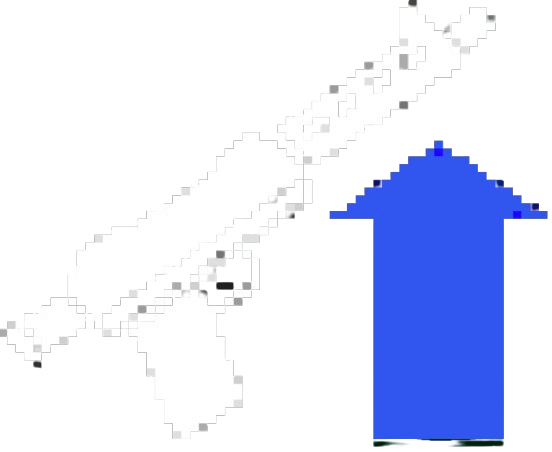
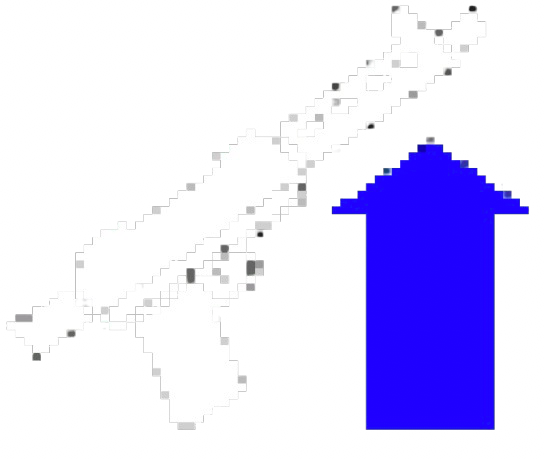
Followerの画像を用意してみたのと、ScoreBoosterを300にした（expの三倍がスコア）

diff --git a/ShootingGame/ShootingGame/MainWindow.xaml.cs b/ShootingGame/ShootingGame/MainWindow.xaml.cs
@@ -390,7 +390,7 @@ namespace ShootingGame
         {
             if (enemies.Count <= 0)
             {
-                enemies.Add(new Boss1());
+                enemies.Add(new Boss3());
                 Boss b = (Boss)enemies[0];
                 enemies.AddRange(b.GetFollowers());
 
@@ -434,6 +434,8 @@ namespace ShootingGame
                 };
                 musicPlayer.IsMuted = false;
                 musicPlayer.Play();
+
+                backgroundAnimationCounter = 0;
             }
         }
 
@@ -473,6 +475,8 @@ namespace ShootingGame
                 };
                 musicPlayer.IsMuted = false;
                 musicPlayer.Play();
+
+                backgroundAnimationCounter = 0;
             }
         }
 
@@ -510,7 +514,7 @@ namespace ShootingGame
         {
             if (windowMode > 0) stagePosition++;
 
-            if (stagePosition > stageLastPosition + 500 && enemies.Count == 0)
+            if (stagePosition > stageLastPosition + 300 && enemies.Count == 0)
             {
                 windowMode = (WindowMode)(-1 * (int)windowMode);
 
@@ -785,7 +789,7 @@ namespace ShootingGame
                                         , FONT_TYPEFACE
                                         , 30
                                         , Brushes.Yellow
-                                        , 12.5), new Point(SystemParameters.FullPrimaryScreenWidth / 2 - topranking.Length * 1.5, modeSelectionTextRect.Y - 40));
+                                        , 12.5), new Point(SystemParameters.FullPrimaryScreenWidth / 2 - topranking.Length * 1.5, modeSelectionTextRect.Y - 150));
             }
             else
             {

diff --git a/ShootingGame/ShootingGame/UtilityUris.cs b/ShootingGame/ShootingGame/UtilityUris.cs
@@ -57,6 +57,8 @@ namespace ShootingGame
         public static readonly Uri BOSS2_URI = new Uri("../../../img/Boss2.png", UriKind.RelativeOrAbsolute);
         public static readonly Uri BOSS3_URI = new Uri("../../../img/Boss3.png", UriKind.RelativeOrAbsolute);
 
+        public static readonly Uri FOLLOWER_URI = new Uri("../../../img/Follower.png", UriKind.RelativeOrAbsolute);
+
         //enemyの弾
         public static readonly Uri E_BULLET_SMALL_URI    = new Uri("../../../img/Enemy_Bullet_SMALL.png", UriKind.RelativeOrAbsolute);
         public static readonly Uri E_BULLET_URI          = new Uri("../../../img/Enemy_Bullet.png", UriKind.RelativeOrAbsolute);
@@ -69,6 +71,7 @@ namespace ShootingGame
         public static readonly Uri SHOT_RATE_DOWN_ICON_URI = new Uri("../../../img/Icon_Ratedown.png", UriKind.RelativeOrAbsolute);
         public static readonly Uri INCINCIBLE_ICON_URI     = new Uri("../../../img/Icon_Invincible.png", UriKind.RelativeOrAbsolute);
         public static readonly Uri SCORE_BOOST_ICON_URI    = new Uri("../../../img/Icon_Scoreboost.png", UriKind.RelativeOrAbsolute);
+        public static readonly Uri DESTOROY_ICON_URI       = new Uri("../../../img/Icon_Destoroy.png", UriKind.RelativeOrAbsolute);
 
         //武器アイコン
         public static readonly Uri DEFAULT_ICON_URI = new Uri("../../../img/Icon_Default.png",UriKind.RelativeOrAbsolute);

diff --git a/ShootingGame/ShootingGame/Entities/Planes/Enemies/Boss/Boss2.cs b/ShootingGame/ShootingGame/Entities/Planes/Enemies/Boss/Boss2.cs
@@ -16,7 +16,7 @@ namespace ShootingGame.Entities.Planes.Enemies.Boss
         private const int PATERN_B = 1;
         private const int PATERN_C = 2;
 
-        public Boss2() : base(App.window.moveableLeftSidePosition + 50, 2, 500, 100, 3, Images.STRAIGHT_ENEMY_IMAGE, 1000, Bullet.RADIUS_FOR_BIG, 200, GenerateFollowers())
+        public Boss2() : base(App.window.moveableLeftSidePosition + 50, 2, 500, 100, 3, Images.BOSS2_IMAGE, 1000, Bullet.RADIUS_FOR_BIG, 200, GenerateFollowers())
         {
             patern = PATERN_A;
         }
@@ -89,10 +89,10 @@ namespace ShootingGame.Entities.Planes.Enemies.Boss
         private static List<Follower> GenerateFollowers()
         {
             return new List<Follower> {
-                new Follower(new SplitEnemy(App.window.moveableLeftSidePosition + 50,100,2), 50),
+                new Follower(new SplitEnemy(App.window.moveableLeftSidePosition + 50,100,2), 25),
                 new Follower(new HexagonEnemy(App.window.moveableLeftSidePosition  + 150,100,2), 150),
                 new Follower(new HexagonEnemy(App.window.moveableLeftSidePosition  + 400,100,2), 150),
-                new Follower(new SplitEnemy(App.window.moveableLeftSidePosition + 450,100,2), 50),
+                new Follower(new SplitEnemy(App.window.moveableLeftSidePosition + 450,100,2), 25),
             };
         }
 

diff --git a/ShootingGame/ShootingGame/Images.cs b/ShootingGame/ShootingGame/Images.cs
@@ -69,6 +69,8 @@ namespace ShootingGame
         public static readonly BitmapImage BOSS2_IMAGE = new BitmapImage(UtilityUris.BOSS2_URI);
         public static readonly BitmapImage BOSS3_IMAGE = new BitmapImage(UtilityUris.BOSS3_URI);
 
+        public static readonly BitmapImage FOLLOWER_IMAGE = new BitmapImage(UtilityUris.FOLLOWER_URI);
+
         /// <summary>
         /// 敵の弾 Sサイズ :  8x 8 (r=4)
         /// </summary>
@@ -89,6 +91,7 @@ namespace ShootingGame
         public static readonly BitmapImage SHOT_RATE_DOWN_ICON_IMAGE = new BitmapImage(UtilityUris.SHOT_RATE_DOWN_ICON_URI);
         public static readonly BitmapImage INCINCIBLE_ICON_IMAGE     = new BitmapImage(UtilityUris.INCINCIBLE_ICON_URI);
         public static readonly BitmapImage SCORE_BOOST_ICON_IMAGE    = new BitmapImage(UtilityUris.SCORE_BOOST_ICON_URI);
+        public static readonly BitmapImage DESTOROY_ICON_IMAGE       = new BitmapImage(UtilityUris.DESTOROY_ICON_URI);
 
         //武器アイコン
         public static readonly BitmapImage DEFAULT_ICON_IMAGE = new BitmapImage(UtilityUris.DEFAULT_ICON_URI);

diff --git a/ShootingGame/ShootingGame/Entities/Planes/Enemies/Boss/Boss3.cs b/ShootingGame/ShootingGame/Entities/Planes/Enemies/Boss/Boss3.cs
@@ -24,7 +24,7 @@ namespace ShootingGame.Entities.Planes.Enemies.Boss
         private const int PATERN_E = 4;
         private const int PATERN_F = 5;
 
-        public Boss3() : base(App.window.moveableLeftSidePosition + 50, 2, 500, 100, 5, Images.STRAIGHT_ENEMY_IMAGE, 2000, Bullet.RADIUS_FOR_BIG, 50, GenerateFollowers())
+        public Boss3() : base(App.window.moveableLeftSidePosition + 50, 2, 500, 100, 5, Images.BOSS3_IMAGE, 2000, Bullet.RADIUS_FOR_BIG, 50, GenerateFollowers())
         {
             defaultMoveableSidePositions = new int[2];
             defaultMoveableSidePositions[0] = App.window.moveableLeftSidePosition;

diff --git a/ShootingGame/ShootingGame/Entities/Planes/Enemies/Boss/Follower.cs b/ShootingGame/ShootingGame/Entities/Planes/Enemies/Boss/Follower.cs
@@ -9,7 +9,7 @@ namespace ShootingGame.Entities.Planes.Enemies.Boss
         public readonly int MAX_HP;
 
 
-        public Follower(Enemy enemy,int MAX_HP) : base(enemy.X, enemy.Y, enemy.Radius, 0, enemy.Img, enemy.Level, 100, Bullet.RADIUS_FOR_SMALL, enemy.MaxBulletCoolTime)
+        public Follower(Enemy enemy,int MAX_HP) : base(enemy.X, enemy.Y, enemy.Radius, 0, Images.FOLLOWER_IMAGE, enemy.Level, 100, Bullet.RADIUS_FOR_SMALL, enemy.MaxBulletCoolTime)
         {
             wrappedEnemy = enemy;
             wrappedEnemy.Speed = 0;

diff --git a/ShootingGame/ShootingGame/Entities/Planes/Enemies/GoldenEnemy.cs b/ShootingGame/ShootingGame/Entities/Planes/Enemies/GoldenEnemy.cs
@@ -2,7 +2,7 @@
 {
     class GoldenEnemy : Enemy
     {
-        public GoldenEnemy(int x, int y, int level ) : base(x, y, /*r=*/10,  /*speed=*/15, Images.GOLDEN_ENEMY_IMAGE, /*LV=*/level, /*hp=*/1, /*bulletRadius=*/Bullet.RADIUS_FOR_SMALL, /*maxBulletCooltime=*/200)
+        public GoldenEnemy(int x, int y, int level ) : base(x, y, /*r=*/15,  /*speed=*/15, Images.GOLDEN_ENEMY_IMAGE, /*LV=*/level, /*hp=*/1, /*bulletRadius=*/Bullet.RADIUS_FOR_SMALL, /*maxBulletCooltime=*/200)
         {
         }
 

diff --git a/ShootingGame/ShootingGame/Entities/Planes/Enemies/Boss/Boss1.cs b/ShootingGame/ShootingGame/Entities/Planes/Enemies/Boss/Boss1.cs
@@ -4,7 +4,7 @@ namespace ShootingGame.Entities.Planes.Enemies.Boss
 {
     class Boss1 : Boss
     {
-        public Boss1() : base(App.window.moveableLeftSidePosition + 50, 2, 500, 100, 1, Images.STRAIGHT_ENEMY_IMAGE, 500, Bullet.RADIUS_FOR_BIG, 200, GenerateFollowers())
+        public Boss1() : base(App.window.moveableLeftSidePosition + 50, 2, 500, 100, 1, Images.BOSS1_IMAGE, 500, Bullet.RADIUS_FOR_BIG, 200, GenerateFollowers())
         {
         }
 

diff --git a/ShootingGame/ShootingGame/Entities/Items/ClearEnemiesItem.cs b/ShootingGame/ShootingGame/Entities/Items/ClearEnemiesItem.cs
@@ -5,7 +5,7 @@ namespace ShootingGame.Entities.Items
 {
     internal class ClearEnemiesItem : Item
     {
-        public ClearEnemiesItem(int x, int y) : base(x, y, 16, 10, Images.CLEAR_ENEMIES_ITEM_IMAGE)
+        public ClearEnemiesItem(int x, int y) : base(x, y, 20, 10, Images.CLEAR_ENEMIES_ITEM_IMAGE)
         {
         }
 

diff --git a/ShootingGame/ShootingGame/Entities/Items/ScoreBoosterItem.cs b/ShootingGame/ShootingGame/Entities/Items/ScoreBoosterItem.cs
@@ -13,7 +13,7 @@ namespace ShootingGame.Entities.Items
 
         protected override void Effect(Player player)
         {
-            player.increaseRateOfScore = 150;
+            player.increaseRateOfScore = 300;
         }
 
         protected override void Move()

diff --git a/ShootingGame/ShootingGame/Entities/Planes/Player.cs b/ShootingGame/ShootingGame/Entities/Planes/Player.cs
@@ -96,7 +96,7 @@ namespace ShootingGame.Entities.Planes
             MAX_HP += 1;
             Hp += 1;
 
-            if (Level % 5 == 0)
+            if (Level % 3 == 0)
             {
                 normalStatus[3]++;
 
